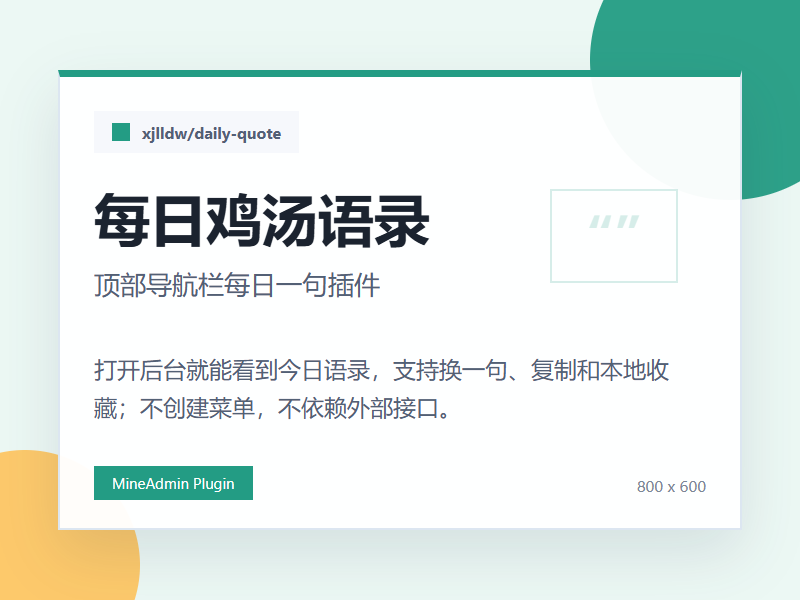
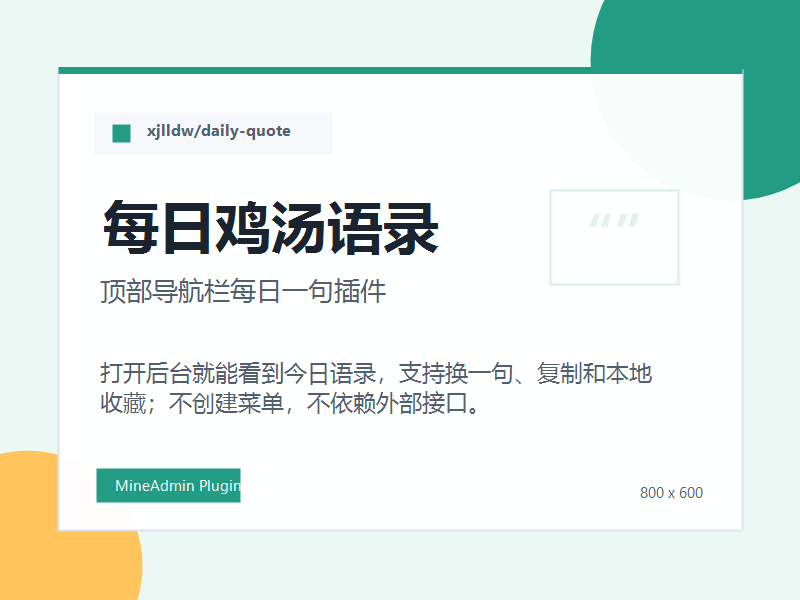
Add deterministic cover generator

diff --git a/README.md b/README.md
@@ -22,3 +22,11 @@ php bin/hyperf.php mine-extension:install xjlldw/daily-quote --yes
 ```
 
 插件安装后会复制 `web/` 到 MineAdmin 前端插件目录，前端重新构建或开发服务热更新后生效。
+
+## 封面生成
+
+封面由根目录的 `generate-cover.ps1` 生成，不依赖 AI。
+
+```powershell
+powershell -NoProfile -ExecutionPolicy Bypass -File .\generate-cover.ps1
+```